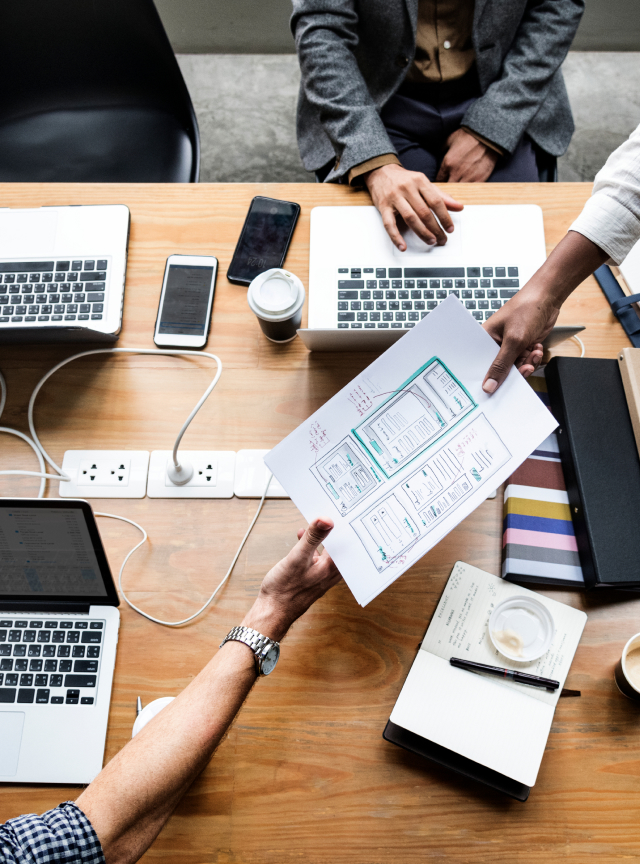
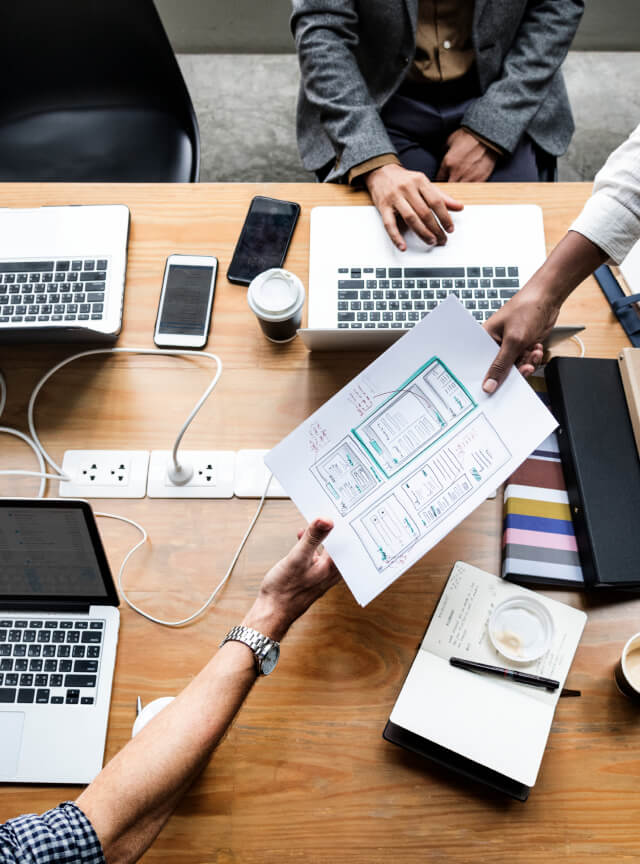
media for images

diff --git a/index.html b/index.html
@@ -156,6 +156,7 @@
           <ul class="team-list">
             <li class="team-item">
               <img
+                srcset="./images/mark-guerrero@2x.jpg 2x"
                 src="./images/mark-guerrero.jpg"
                 alt="Mark Guerrero"
                 width="264"
@@ -218,6 +219,7 @@
             </li>
             <li class="team-item">
               <img
+                srcset="./images/tom-ford@2x.jpg 2x"
                 src="./images/tom-ford.jpg"
                 alt="Tom Ford"
                 width="264"
@@ -280,6 +282,7 @@
             </li>
             <li class="team-item">
               <img
+                srcset="./images/camila-garcia@2x.jpg 2x"
                 src="./images/camila-garcia.jpg"
                 alt="Camila Garcia"
                 width="264"
@@ -342,6 +345,7 @@
             </li>
             <li class="team-item">
               <img
+                srcset="./images/daniel-wilson@2x.jpg 2x"
                 src="./images/daniel-wilson.jpg"
                 alt="Daniel Wilson"
                 width="264"
@@ -413,12 +417,27 @@
           <ul class="portfolio-list">
             <li class="portfolio-item">
               <div class="portfolio-img-container">
-                <img
-                  src="./images/banking-app.jpg"
-                  alt="Banking App"
-                  width="360"
-                  height="300"
-                />
+                <picture>
+                  <source
+                    srcset="
+                      ./images/mobile/banking-app.jpg    1x,
+                      ./images/mobile/banking-app@2x.jpg 2x
+                    "
+                    media="(max-width: 767px)"
+                    width="288"
+                    height="280"
+                  />
+                  <img
+                    class="portfolio-item-img"
+                    srcset="
+                      ./images/banking-app.jpg    1x,
+                      ./images/banking-app@2x.jpg 2x
+                    "
+                    alt="Banking App"
+                    width="360"
+                    height="300"
+                  />
+                </picture>
                 <p class="overlay">
                   14 Stylish and User-Friendly App Design Concepts · Task
                   Manager App · Calorie Tracker App · Exotic Fruit Ecommerce App
@@ -432,13 +451,27 @@
             </li>
             <li class="portfolio-item">
               <div class="portfolio-img-container">
-                <img
-                  class="portfolio-item-img"
-                  src="./images/cashless-payment.jpg"
-                  alt="Cashless Payment"
-                  width="360"
-                  height="300"
-                />
+                <picture>
+                  <source
+                    srcset="
+                      ./images/mobile/cashless-payment.jpg    1x,
+                      ./images/mobile/cashless-payment@2x.jpg 2x
+                    "
+                    media="(max-width: 767px)"
+                    width="288"
+                    height="280"
+                  />
+                  <img
+                    class="portfolio-item-img"
+                    srcset="
+                      ./images/cashless-payment.jpg    1x,
+                      ./images/cashless-payment@2x.jpg 2x
+                    "
+                    alt="Cashless Payment"
+                    width="360"
+                    height="300"
+                  />
+                </picture>
                 <p class="overlay">
                   14 Stylish and User-Friendly App Design Concepts · Task
                   Manager App · Calorie Tracker App · Exotic Fruit Ecommerce App
@@ -452,12 +485,27 @@
             </li>
             <li class="portfolio-item">
               <div class="portfolio-img-container">
-                <img
-                  src="./images/meditaion-app.jpg"
-                  alt="Meditaion App"
-                  width="360"
-                  height="300"
-                />
+                <picture>
+                  <source
+                    srcset="
+                      ./images/mobile/meditaion-app.jpg    1x,
+                      ./images/mobile/meditaion-app@2x.jpg 2x
+                    "
+                    media="(max-width: 767px)"
+                    width="288"
+                    height="280"
+                  />
+                  <img
+                    class="portfolio-item-img"
+                    srcset="
+                      ./images/meditaion-app.jpg    1x,
+                      ./images/meditaion-app@2x.jpg 2x
+                    "
+                    alt="Meditaion App"
+                    width="360"
+                    height="300"
+                  />
+                </picture>
                 <p class="overlay">
                   14 Stylish and User-Friendly App Design Concepts · Task
                   Manager App · Calorie Tracker App · Exotic Fruit Ecommerce App
@@ -471,12 +519,27 @@
             </li>
             <li class="portfolio-item">
               <div class="portfolio-img-container">
-                <img
-                  src="./images/taxi-service.jpg"
-                  alt="Taxi Service"
-                  width="360"
-                  height="300"
-                />
+                <picture>
+                  <source
+                    srcset="
+                      ./images/mobile/taxi-service.jpg    1x,
+                      ./images/mobile/taxi-service@2x.jpg 2x
+                    "
+                    media="(max-width: 767px)"
+                    width="288"
+                    height="280"
+                  />
+                  <img
+                    class="portfolio-item-img"
+                    srcset="
+                      ./images/taxi-service.jpg    1x,
+                      ./images/taxi-service@2x.jpg 2x
+                    "
+                    alt="Taxi Service"
+                    width="360"
+                    height="300"
+                  />
+                </picture>
                 <p class="overlay">
                   14 Stylish and User-Friendly App Design Concepts · Task
                   Manager App · Calorie Tracker App · Exotic Fruit Ecommerce App
@@ -490,12 +553,27 @@
             </li>
             <li class="portfolio-item">
               <div class="portfolio-img-container">
-                <img
-                  src="./images/screen-illustrations.jpg"
-                  alt="Screen Illustrations"
-                  width="360"
-                  height="300"
-                />
+                <picture>
+                  <source
+                    srcset="
+                      ./images/mobile/screen-illustrations.jpg    1x,
+                      ./images/mobile/screen-illustrations@2x.jpg 2x
+                    "
+                    media="(max-width: 767px)"
+                    width="288"
+                    height="280"
+                  />
+                  <img
+                    class="portfolio-item-img"
+                    srcset="
+                      ./images/screen-illustrations.jpg    1x,
+                      ./images/screen-illustrations@2x.jpg 2x
+                    "
+                    alt="Screen Illustrations"
+                    width="360"
+                    height="300"
+                  />
+                </picture>
                 <p class="overlay">
                   14 Stylish and User-Friendly App Design Concepts · Task
                   Manager App · Calorie Tracker App · Exotic Fruit Ecommerce App
@@ -509,12 +587,27 @@
             </li>
             <li class="portfolio-item">
               <div class="portfolio-img-container">
-                <img
-                  src="./images/online-courses.jpg"
-                  alt="Online Courses"
-                  width="360"
-                  height="300"
-                />
+                <picture>
+                  <source
+                    srcset="
+                      ./images/mobile/online-courses.jpg    1x,
+                      ./images/mobile/online-courses@2x.jpg 2x
+                    "
+                    media="(max-width: 767px)"
+                    width="288"
+                    height="280"
+                  />
+                  <img
+                    class="portfolio-item-img"
+                    srcset="
+                      ./images/online-courses.jpg    1x,
+                      ./images/online-courses@2x.jpg 2x
+                    "
+                    alt="Online Courses"
+                    width="360"
+                    height="300"
+                  />
+                </picture>
                 <p class="overlay">
                   14 Stylish and User-Friendly App Design Concepts · Task
                   Manager App · Calorie Tracker App · Exotic Fruit Ecommerce App

diff --git a/css/styles.css b/css/styles.css
@@ -148,13 +148,25 @@ a {
       rgba(46, 47, 66, 0.7),
       rgba(46, 47, 66, 0.7)
     ),
-    url("../images/hero.jpg");
+    url("../images/mobile/bg.jpg");
   background-repeat: no-repeat;
   background-size: cover;
   max-width: 320px;
   background-position: center;
   margin-left: auto;
   margin-right: auto;
+}
+
+@media screen and (min-resolution: 192dpi) and (max-width: 767px),
+  screen and (min-resolution: 2dppx) and (max-width: 767px),
+  screen and (min-device-pixel-ratio: 2) and (max-width: 767px) {
+  .hero-section {
+    background-image: linear-gradient(
+        rgba(46, 47, 66, 0.7),
+        rgba(46, 47, 66, 0.7)
+      ),
+      url("../images/mobile/bg@2x.jpg");
+  }
 }
 
 .hero-motto {
@@ -311,7 +323,8 @@ a {
   transition: box-shadow 250ms cubic-bezier(0.4, 0, 0.2, 1);
 }
 
-.portfolio-item img {
+.portfolio-item img,
+.portfolio-item picture {
   object-fit: cover;
 }
 
@@ -801,6 +814,11 @@ a {
   .hero-section {
     max-width: 768px;
     padding: 112px 0;
+    background-image: linear-gradient(
+        rgba(46, 47, 66, 0.7),
+        rgba(46, 47, 66, 0.7)
+      ),
+      url("../images/tablet/bg.jpg");
   }
 
   .hero-motto {
@@ -839,7 +857,7 @@ a {
   }
 
   .portfolio-item {
-    max-width: 356px;
+    width: 356px;
   }
 
   .footer-flex-container {
@@ -851,7 +869,7 @@ a {
   }
 
   .footer-first-part {
-    max-width: 264px;
+    width: 264px;
   }
 
   .logo-footer-link {
@@ -868,7 +886,7 @@ a {
   }
 
   .input-subscribe-email {
-    max-width: 264px;
+    width: 264px;
   }
 
   .modal {
@@ -876,6 +894,18 @@ a {
     min-height: 584px;
     padding-left: 23px;
     padding-right: 25px;
+  }
+}
+
+@media screen and (min-resolution: 192dpi) and (min-width: 768px),
+  screen and (min-resolution: 2dppx) and (min-width: 768px),
+  screen and (min-device-pixel-ratio: 2) and (min-width: 768px) {
+  .hero-section {
+    background-image: linear-gradient(
+        rgba(46, 47, 66, 0.7),
+        rgba(46, 47, 66, 0.7)
+      ),
+      url("../images/tablet/bg@2x.jpg");
   }
 }
 
@@ -899,6 +929,11 @@ a {
     height: 600px;
     padding: 188px 0;
     max-width: 1440px;
+    background-image: linear-gradient(
+        rgba(46, 47, 66, 0.7),
+        rgba(46, 47, 66, 0.7)
+      ),
+      url("../images/desktop/bg.jpg");
   }
 
   .section {
@@ -989,6 +1024,18 @@ a {
   .modal {
     padding-left: 24px;
     padding-right: 24px;
+  }
+}
+
+@media screen and (min-resolution: 192dpi) and (min-width: 1158px),
+  screen and (min-resolution: 2dppx) and (min-width: 1158px),
+  screen and (min-device-pixel-ratio: 2) and (min-width: 1158px) {
+  .hero-section {
+    background-image: linear-gradient(
+        rgba(46, 47, 66, 0.7),
+        rgba(46, 47, 66, 0.7)
+      ),
+      url("../images/desktop/bg@2x.jpg");
   }
 }
 
